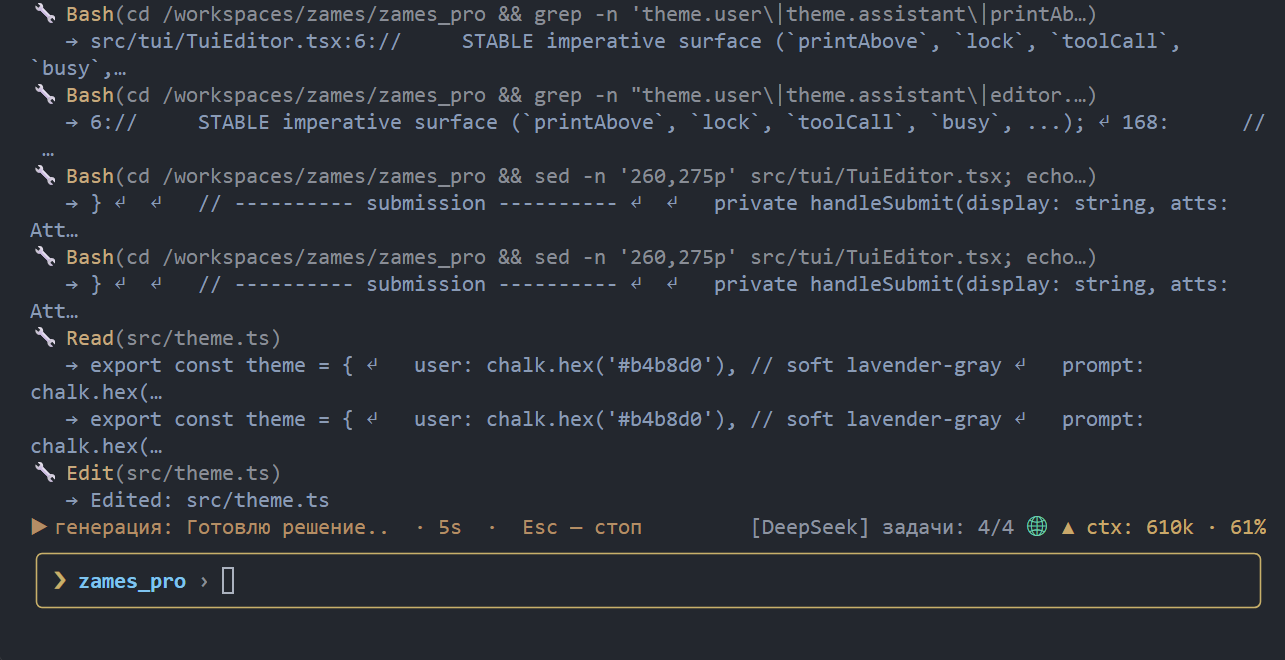
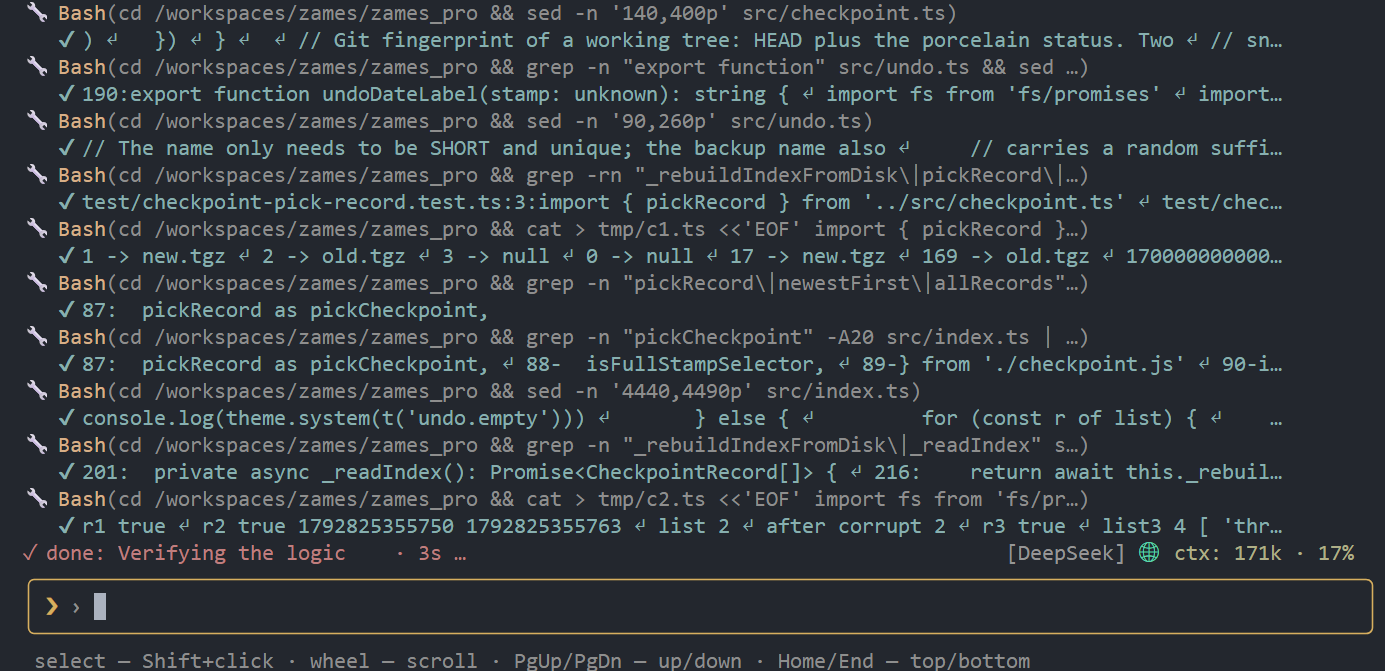
fix(send-runtime): record the block duration on the successful retry

Changed region(s): [[0.0, 0.0, 0.9961, 1.0]]

diff --git a/test/send-runtime-block-lift.test.ts b/test/send-runtime-block-lift.test.ts
@@ -1,0 +1,70 @@
+// The measured BLOCK duration of a rate limit is written by onBlockLifted().
+// That call is the ONLY producer of `blockMs` besides the zero-length guard,
+// and a real provider's ask() never calls it: a rate limit is retried IN
+// PLACE, the retry succeeds, and onOutcome('ok') has ALREADY cleared
+// `blockedAt` by then. So /limits kept reporting "average block: 0s" for a
+// provider whose telemetry has rate-limit events. When a send succeeds and the
+// runtime still knows the block start, that success IS the lift: record the
+// duration right there (once — a second success must not re-measure it).
+
+import { test } from 'node:test'
+import assert from 'node:assert/strict'
+import { SendRuntime } from '../src/send-runtime.ts'
+import { readSendEvents } from '../src/send-telemetry.ts'
+import { makeTmpDir } from './tmp-dir.ts'
+
+test('a success after a rate limit records the block duration', async (t) => {
+  const dir = await makeTmpDir(t, 'zames-blocklift-')
+  let now = 1_000_000
+  const rt = new SendRuntime({
+    provider: 'glm',
+    baseMs: 0,
+    rateLimitWaitMs: 60_000,
+    adaptive: true,
+    telemetry: true,
+    logsDir: dir,
+    now: () => now,
+  })
+  rt.onSend()
+  rt.onOutcome('rate_limit')
+  now += 60_000
+  rt.onSend()
+  rt.onOutcome('ok')
+  const measured = readSendEvents(dir, 'glm').filter(
+    (e) => typeof e.blockMs === 'number',
+  )
+  assert.equal(measured.length, 1, 'one block = one measurement')
+  assert.equal(measured[0].blockMs, 60_000)
+  // A SECOND success must not measure the same (already lifted) block again.
+  now += 1000
+  rt.onSend()
+  rt.onOutcome('ok')
+  const again = readSendEvents(dir, 'glm').filter(
+    (e) => typeof e.blockMs === 'number',
+  )
+  assert.equal(again.length, 1, 'the lifted block is not measured twice')
+})
+
+test('the block duration is recorded with the adaptive throttle off too', async (t) => {
+  const dir = await makeTmpDir(t, 'zames-blocklift2-')
+  let now = 1_000_000
+  const rt = new SendRuntime({
+    provider: 'deepseek',
+    baseMs: 1000,
+    rateLimitWaitMs: 5000,
+    adaptive: false,
+    telemetry: true,
+    logsDir: dir,
+    now: () => now,
+  })
+  rt.onSend({})
+  rt.onOutcome('rate_limit')
+  now += 30_000
+  rt.onSend({})
+  rt.onOutcome('ok')
+  const measured = readSendEvents(dir, 'deepseek').filter(
+    (e) => typeof e.blockMs === 'number',
+  )
+  assert.equal(measured.length, 1)
+  assert.equal(measured[0].blockMs, 30_000)
+})

diff --git a/src/send-runtime.ts b/src/send-runtime.ts
@@ -117,6 +117,21 @@ export class SendRuntime {
     if (typeof extra.retryAfterMs === 'number') {
       e.retryAfterMs = extra.retryAfterMs
     }
+    // A SUCCESS after a rate limit IS the lift of that block. onBlockLifted()
+    // was the only producer of `blockMs`, but no provider's ask() calls it (a
+    // rate limit is retried IN PLACE and the retry simply succeeds), and the
+    // fold below clears `blockedAt` first. The measured duration is therefore
+    // taken HERE, before the state is folded; it is attached to the SAME event
+    // line, so one block still yields exactly one sample.
+    let blockMs: number | undefined
+    if (
+      outcome === 'ok' &&
+      this.state.blockedAt &&
+      this.now() > this.state.blockedAt
+    ) {
+      blockMs = this.now() - this.state.blockedAt
+      e.blockMs = blockMs
+    }
     if (this.opts.adaptive) {
       this.state = applySendEvent(this.state, e, this.cfg, this.now())
     } else if (outcome === 'rate_limit' && !this.state.blockedAt) {

diff --git a/QUEUE.md b/QUEUE.md
@@ -10,6 +10,28 @@
 
 ## Журнал тактов
 
+### Такт 353 (2026-10-24) — исправлено
+
+**Цель:** send-runtime — измерение длительности блока (src/send-runtime.ts).
+
+**Баг:** `blockMs` писала ТОЛЬКО `onBlockLifted()`, а ни один провайдер её не вызывает: rate limit повторяется IN PLACE, ретрай просто успешен, а `onOutcome('ok')` уже обнулил `blockedAt`. В результате `/limits` всегда показывал `average block: 0s` при реальных rate-limit событиях. Проверено запуском (blockMs не появляется в JSONL).
+
+**Фикс:** `onOutcome('ok')` сам измеряет блок (`now - blockedAt`) ДО сворачивания состояния и пишет `blockMs` в ту же строку — один блок даёт ровно один замер; работает и при adaptive=off. Повторный успех блок заново не мерит.
+
+**Тест:** test/send-runtime-block-lift.test.ts (2 кейса: успех после rate limit пишет длительность один раз; то же при adaptive=off). RED до фикса (оба падения), GREEN после; send-runtime*/send-telemetry* — 8 тестов зелёные.
+
+**Гейты:** npm test 1852 теста (1842 pass, 0 fail, 10 skip), typecheck,
+lint (0 errors, 2 прежних warning), format:check, build, sched-smoke —
+зелёные.
+
+**Статус:** исправлено (2026-10-24).
+
+---
+
+## Покрытые области (не повторять без причины)
+
+- src/send-runtime.ts — длительность блока измеряется на успешном ретрае (2026-10-24).
+
 ### Такт 352 (2026-10-24) — исправлено
 
 **Цель:** undo/checkpoint/rewind — устойчивость `runTar` в src/checkpoint.ts.
